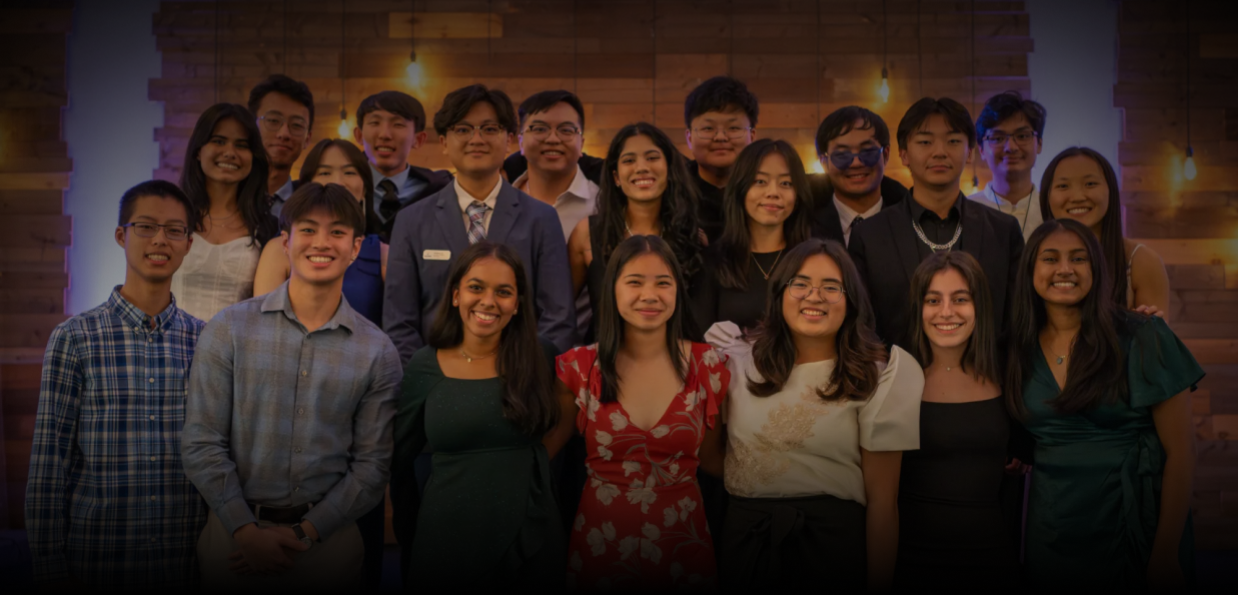
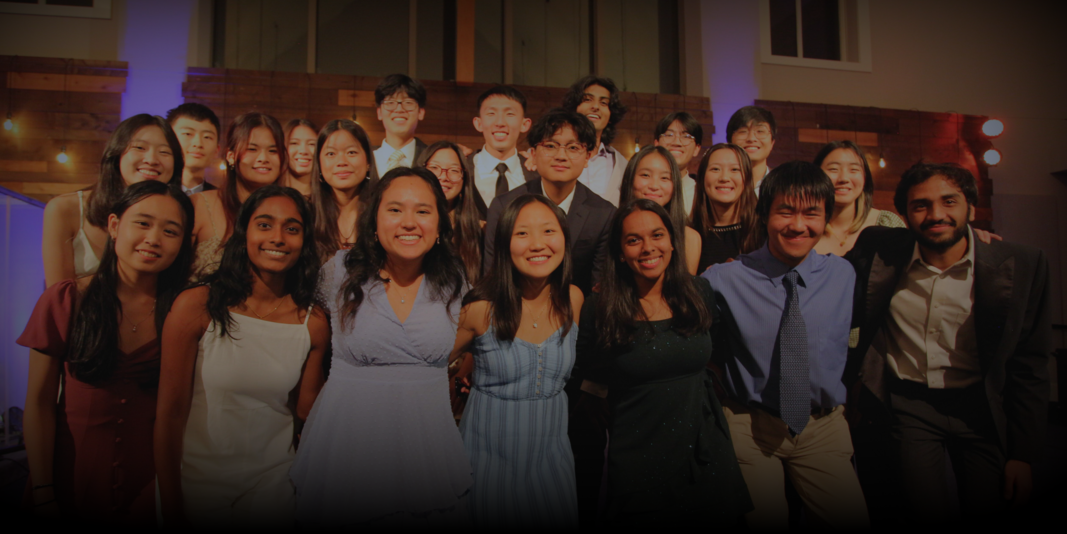
update cover board picture and a couple dark fixes

diff --git a/src/client/components/events/EventsSlidesDisplay.tsx b/src/client/components/events/EventsSlidesDisplay.tsx
@@ -70,14 +70,14 @@ const EventsSlides: React.FC = () => {
   return (
     <div className="relative flex w-screen flex-col items-center gap-5 p-5 font-redhat">
       {semesters.length > 0 && (
-        <div className="mb-6 flex w-full gap-4 border-b-2 border-gray-300">
+        <div className="mb-6 flex w-full gap-4 border-b-2 border-border">
           {semesters.map((semester) => (
             <button
               key={semester.name}
               className={`border-b-2 p-3 px-6 transition-all duration-300 ease-in-out ${
                 semesters[selectedSemester]?.name === semester.name
-                  ? "border-saseGreen font-semibold text-black"
-                  : "border-transparent text-black hover:border-gray-400"
+                  ? "border-saseGreen font-semibold text-foreground"
+                  : "border-transparent text-foreground hover:border-gray-400"
               }`}
               onClick={() => setSelectedSemester(semesters.indexOf(semester))}
             >
@@ -90,7 +90,7 @@ const EventsSlides: React.FC = () => {
       <div ref={dropdownRef} className="absolute right-5 top-5 z-10">
         <button
           onClick={() => setIsDropdownOpen(!isDropdownOpen)}
-          className="flex w-40 items-center justify-between rounded-xl border border-black bg-white px-2 py-2 font-redhat text-black"
+          className="flex w-40 items-center justify-between rounded-xl border border-foreground bg-background px-2 py-2 font-redhat text-foreground"
         >
           <span>{view === "slides" ? "Slides" : "Recordings"}</span>
           <svg
@@ -106,7 +106,7 @@ const EventsSlides: React.FC = () => {
         </button>
 
         <div
-          className={cn("absolute left-0 w-40 transform overflow-hidden rounded-xl border border-black bg-white transition-all duration-200", {
+          className={cn("absolute left-0 w-40 transform overflow-hidden rounded-xl border border-border bg-background transition-all duration-200", {
             "translate-y-0 opacity-100": isDropdownOpen,
             "-translate-y-2 opacity-0": !isDropdownOpen,
           })}
@@ -152,7 +152,7 @@ const EventsSlides: React.FC = () => {
                   <ImageButton imageUrl={deck.thumbnail_url} slideUrl={deck.embed_url} title={deck.name} category={deck.category} />
                 )}
                 {deck.category && deck.name && (
-                  <div className="mt-2 text-center text-sm text-black">
+                  <div className="mt-2 text-center text-sm text-foreground">
                     <p>
                       <span className="font-semibold">{deck.category}:</span> <span>{deck.name}</span>
                     </p>

diff --git a/src/client/index.css b/src/client/index.css
@@ -13,7 +13,8 @@
     --popover: 0 0% 100%;
     --popover-foreground: 222.2 47.4% 11.2%;
 
-    --border: 214.3 31.8% 91.4%;
+    --border: 222.2 47.4% 11.2%;
+
     --input: 214.3 31.8% 91.4%;
 
     --card: 0 0% 100%;
@@ -150,7 +151,7 @@
 }
 
 .dropdown-container {
-  @apply w-full rounded-lg border-2 border-black text-left font-redhat text-lg shadow-[5px_5px_0px_0px_rgb(125,194,66)] hover:cursor-pointer hover:opacity-70;
+  @apply w-full rounded-lg border-2 border-border text-left font-redhat text-lg shadow-[5px_5px_0px_0px_rgb(125,194,66)] hover:cursor-pointer hover:opacity-70;
 }
 
 .dropdown-transition {
@@ -158,7 +159,7 @@
 }
 
 .dropdown-item {
-  @apply flex items-center py-1 text-gray-700 hover:text-black;
+  @apply flex items-center py-1 text-muted-foreground hover:text-foreground;
 }
 
 .dropdown-button {

diff --git a/src/client/routes/board.tsx b/src/client/routes/board.tsx
@@ -1,4 +1,4 @@
-import BoardPic from "@assets/board/BoardPic.jpeg";
+import BoardPic from "@assets/board/BoardPic.jpg";
 import { imageUrls } from "@assets/imageUrls";
 import boardInfo from "@components/BoardInfo";
 import BoardMemberCard from "@components/BoardMemberCard";
